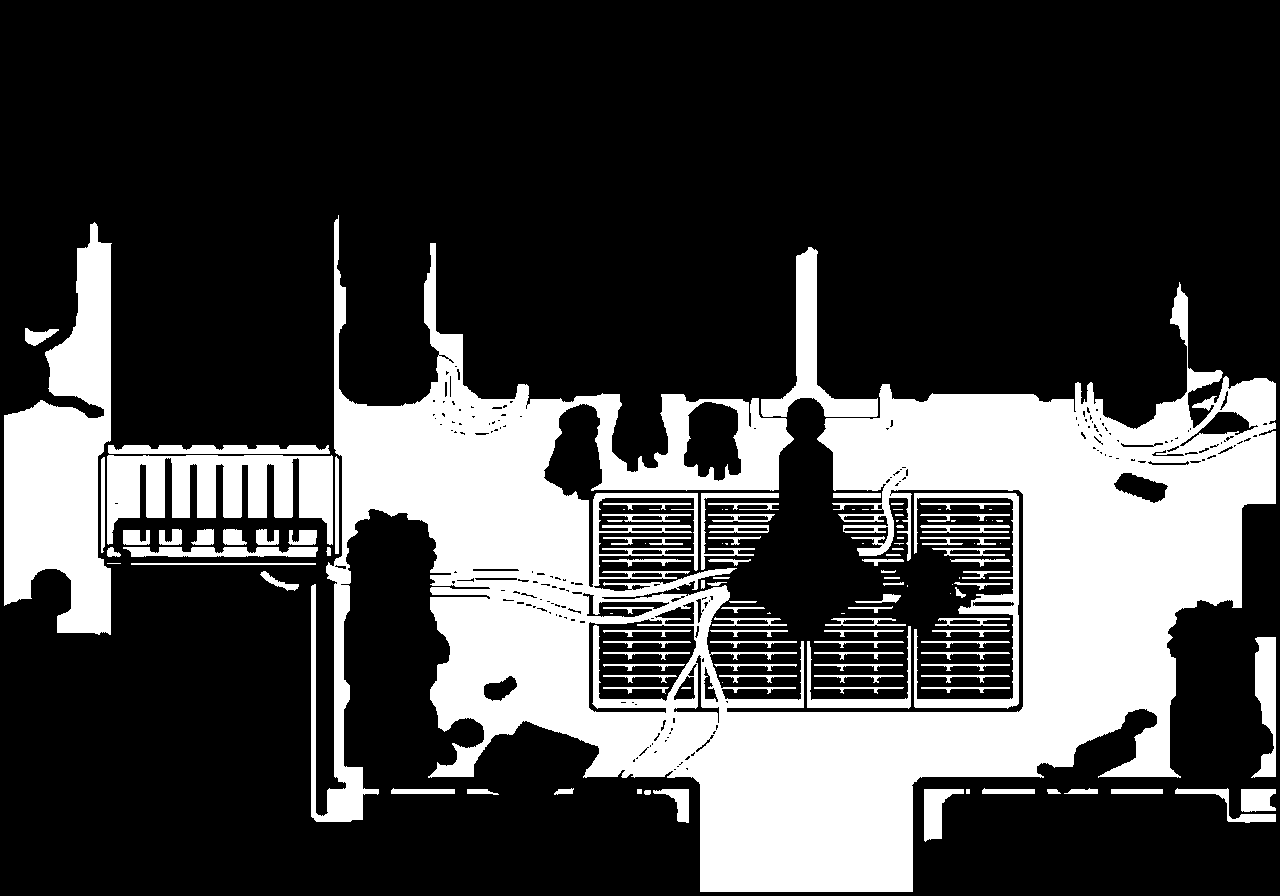
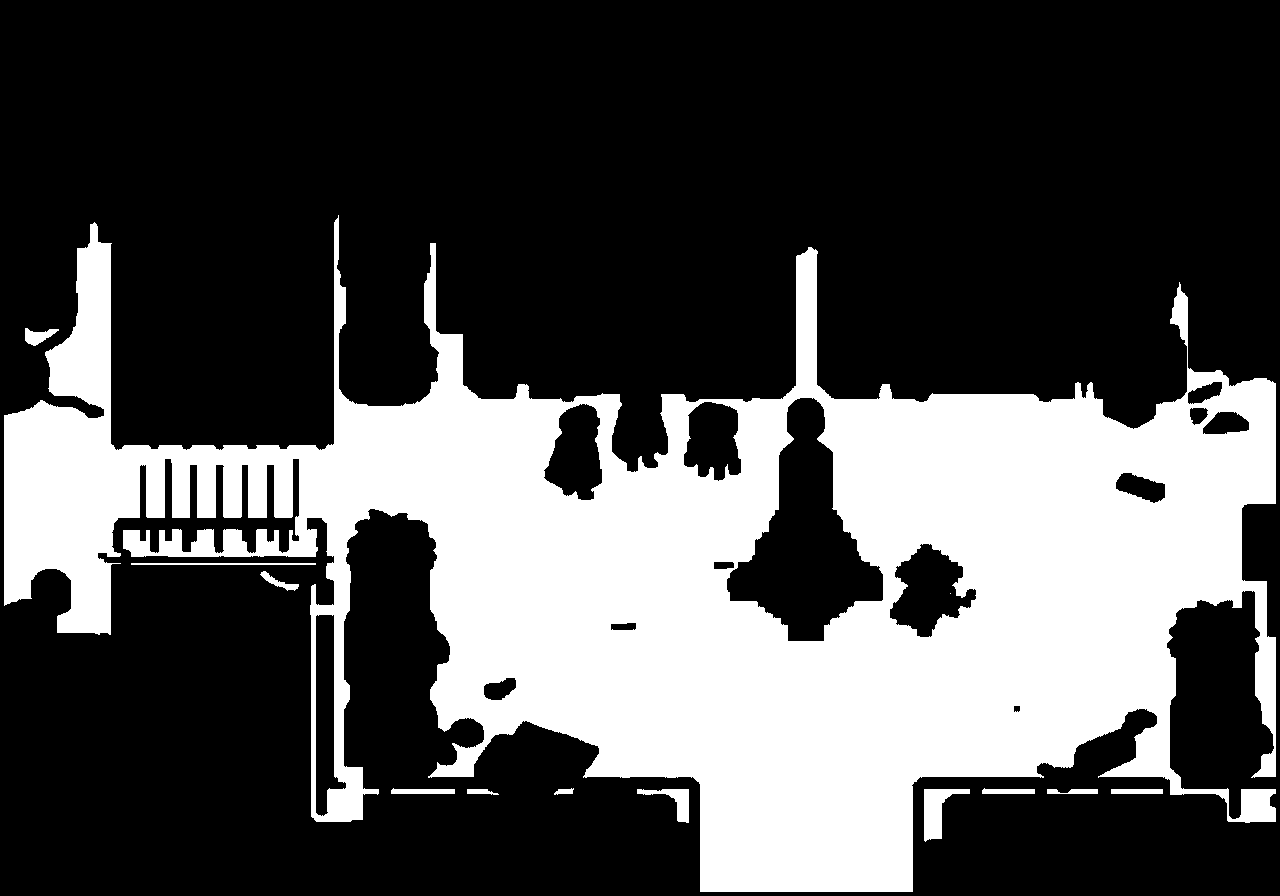
walkability corrections from playtest: morphological closing melts grate slats into solid walkable panels; island connector carves corridors to large walkable islands routed ONLY through class-floor pixels (bridge deck now connected via shore, buildings/water untunnelable); islands 267k->17k px; wir

diff --git a/tools/art-pipeline/segment_room.py b/tools/art-pipeline/segment_room.py
@@ -256,6 +256,63 @@ def main():
             pipes = np.linalg.norm(clsb - np.array([128, 0, 255], np.int16), axis=2) < 90
             nwalk = nwalk | pipes
         walk_src = nwalk & ~blocked
+    import cv2 as _cv
+    # grates/slatted decks: thin dark lines fragment the mask — close them
+    walk_src = _cv.morphologyEx(walk_src.astype(np.uint8), _cv.MORPH_CLOSE,
+                                np.ones((9, 9), np.uint8)).astype(bool) & ~blocked
+    # island connector: large walkable islands (bridge deck!) get a corridor
+    # to the main region, routed ONLY through class-mask floor pixels — can
+    # cross a red-marked shore strip, can never tunnel through buildings/water
+    ncc2, lab2 = _cv.connectedComponents(walk_src.astype(np.uint8))
+    if ncc2 > 2:
+        sizes = [(lab2 == i).sum() for i in range(1, ncc2)]
+        main_id = 1 + int(np.argmax(sizes))
+        floor_ok = np.zeros_like(walk_src)
+        npb2 = os.path.join(ROOT, 'docs', 'art-options', 'nbp-mask.png')
+        if os.path.exists(npb2):
+            clsb2 = np.asarray(Image.open(npb2).convert('RGB').resize((OUT_W, OUT_H), Image.NEAREST)).astype(np.int16)
+            floor_ok = (np.linalg.norm(clsb2 - np.array([0, 255, 0], np.int16), axis=2) < 90) & ~blocked
+        allowed = walk_src | floor_ok
+        stp = 8
+        lath, latw = OUT_H // stp, OUT_W // stp
+        lat_ok = np.zeros((lath, latw), dtype=bool)
+        lat_lab = np.zeros((lath, latw), dtype=np.int32)
+        for ly2 in range(lath):
+            for lx2 in range(latw):
+                blk = allowed[ly2 * stp:(ly2 + 1) * stp, lx2 * stp:(lx2 + 1) * stp]
+                lat_ok[ly2, lx2] = blk.mean() > 0.5
+                lat_lab[ly2, lx2] = lab2[min(OUT_H - 1, ly2 * stp + stp // 2), min(OUT_W - 1, lx2 * stp + stp // 2)]
+        from collections import deque
+        for isl in range(1, ncc2):
+            if isl == main_id or sizes[isl - 1] < 5000:
+                continue
+            starts = [(x, y) for y in range(lath) for x in range(latw) if lat_lab[y, x] == main_id and lat_ok[y, x]]
+            if not starts:
+                break
+            prev = {}
+            qq = deque(starts[::37] or starts[:1])
+            vis = set(qq)
+            goal = None
+            while qq and goal is None:
+                cx3, cy3 = qq.popleft()
+                for dx3, dy3 in ((1, 0), (-1, 0), (0, 1), (0, -1)):
+                    nx3, ny3 = cx3 + dx3, cy3 + dy3
+                    if 0 <= nx3 < latw and 0 <= ny3 < lath and lat_ok[ny3, nx3] and (nx3, ny3) not in vis:
+                        vis.add((nx3, ny3))
+                        prev[(nx3, ny3)] = (cx3, cy3)
+                        if lat_lab[ny3, nx3] == isl:
+                            goal = (nx3, ny3)
+                            break
+                        qq.append((nx3, ny3))
+            if goal:
+                node = goal
+                while node in prev:
+                    gx, gy = node
+                    y0c, x0c = max(0, gy * stp - 8), max(0, gx * stp - 8)
+                    patch = allowed[y0c:gy * stp + stp + 8, x0c:gx * stp + stp + 8]
+                    walk_src[y0c:gy * stp + stp + 8, x0c:gx * stp + stp + 8] |= patch
+                    node = prev[node]
+                print(f'connected island {isl} ({sizes[isl - 1]}px) to main region')
     walk = Image.fromarray((walk_src * 255).astype(np.uint8))
     walk = walk.filter(ImageFilter.MinFilter(3))  # light erode (mask is already conservative)
     walk_arr = np.asarray(walk) > 127
